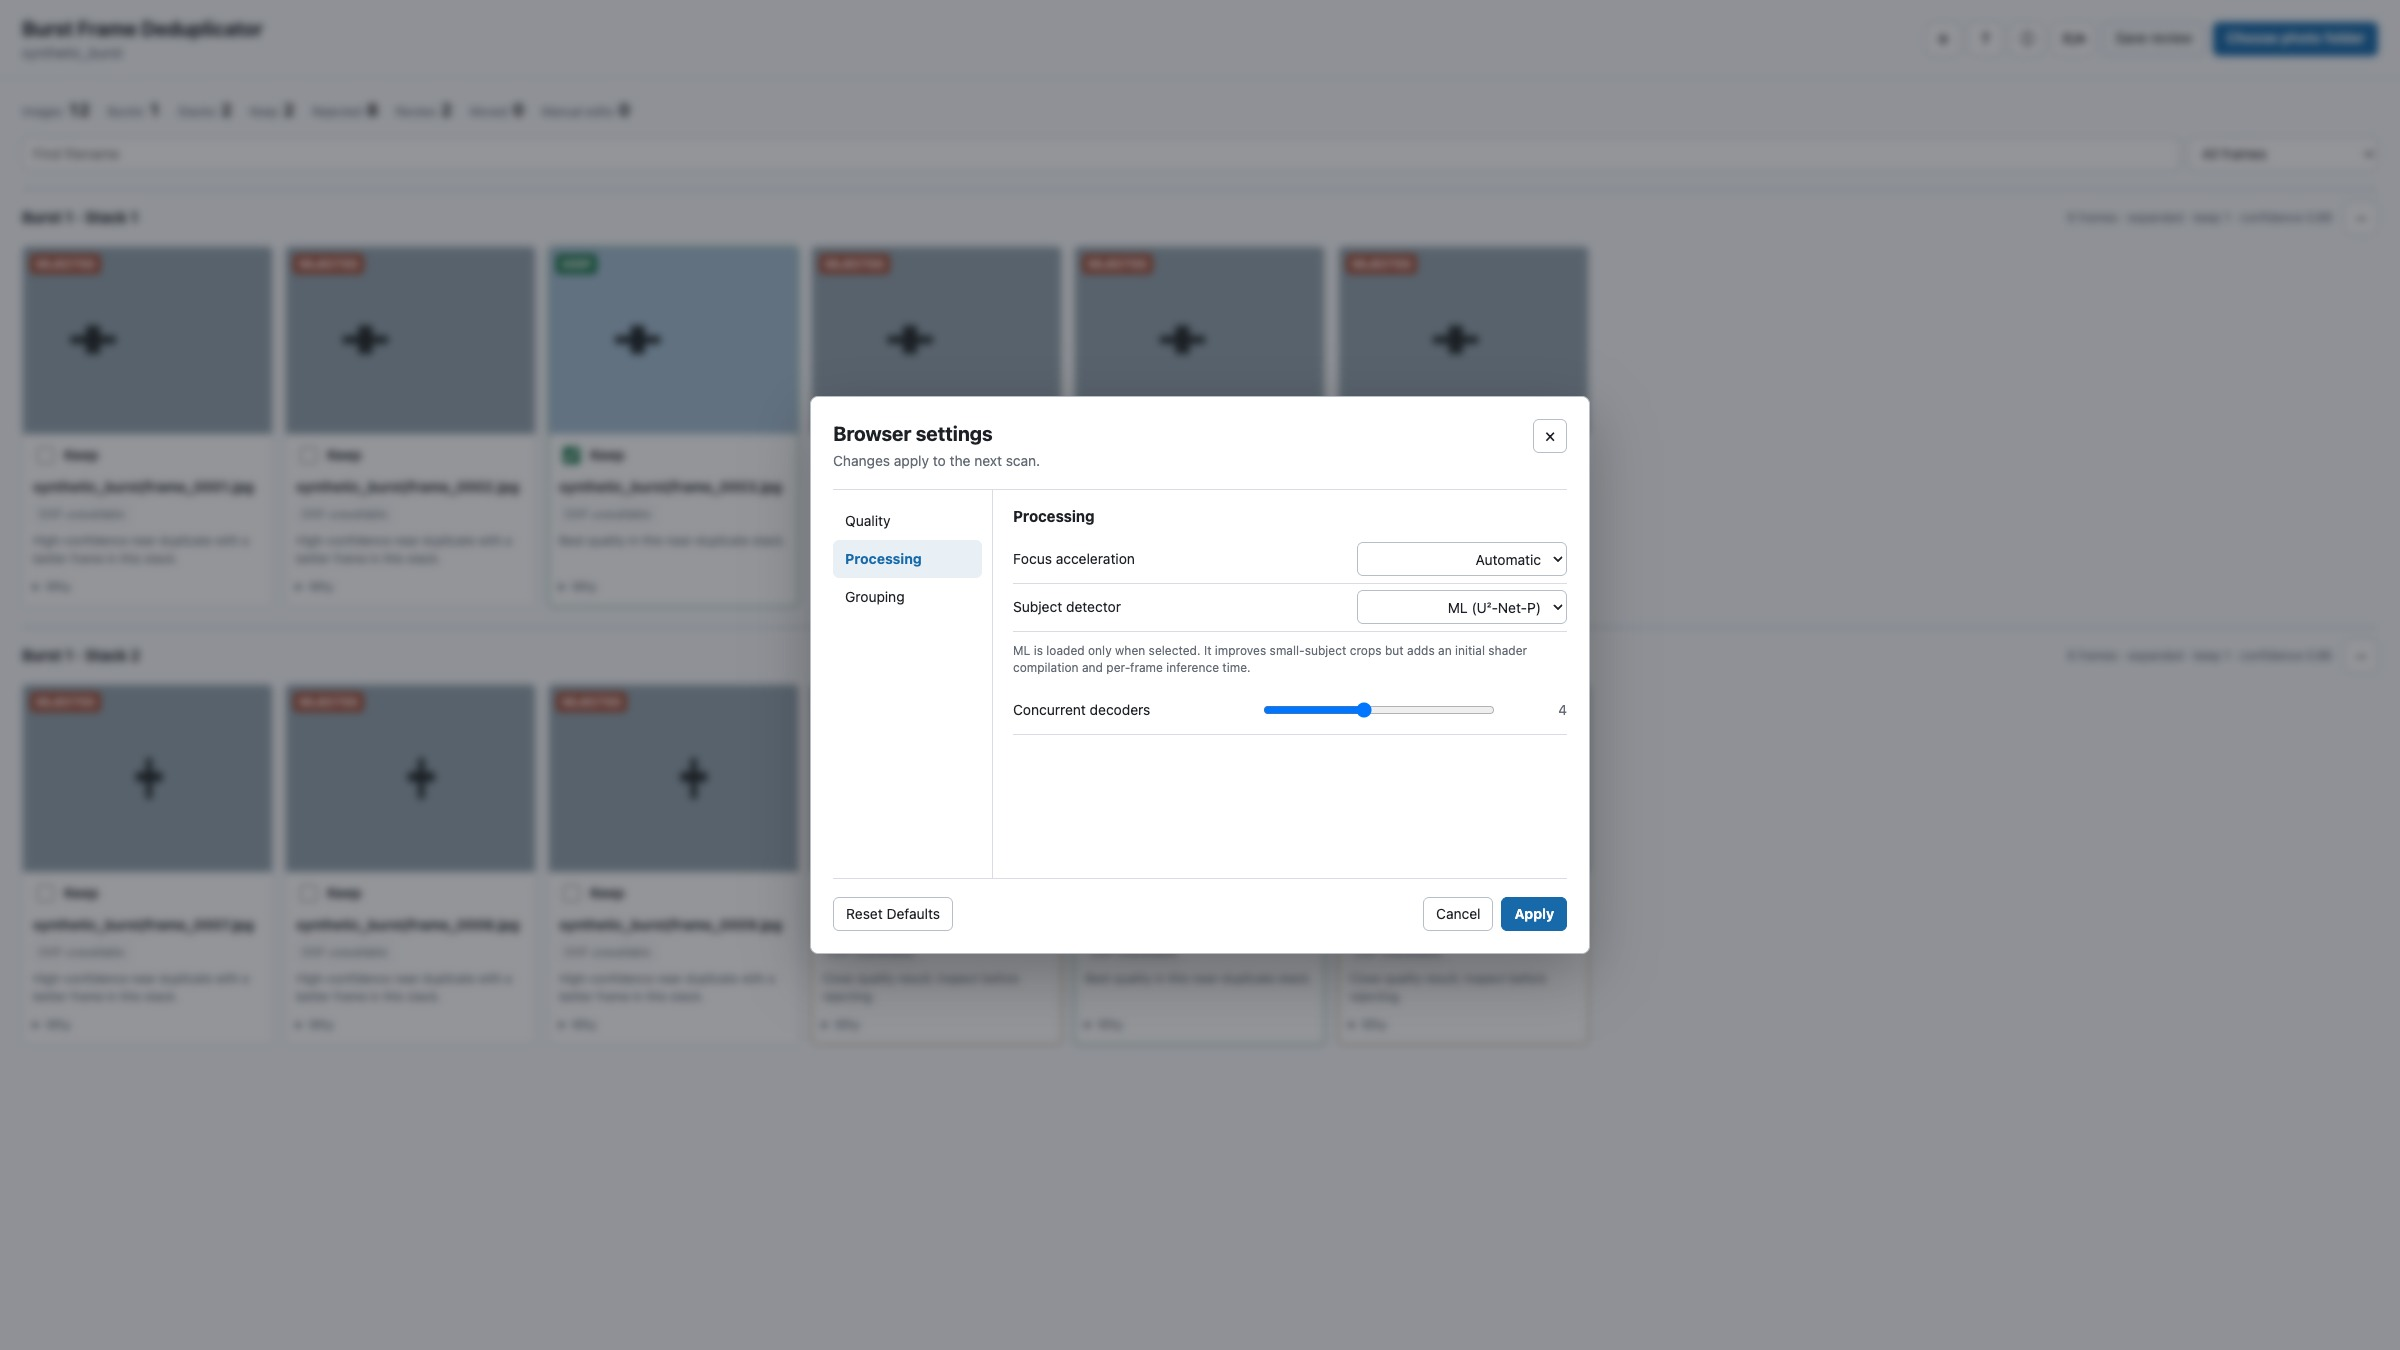
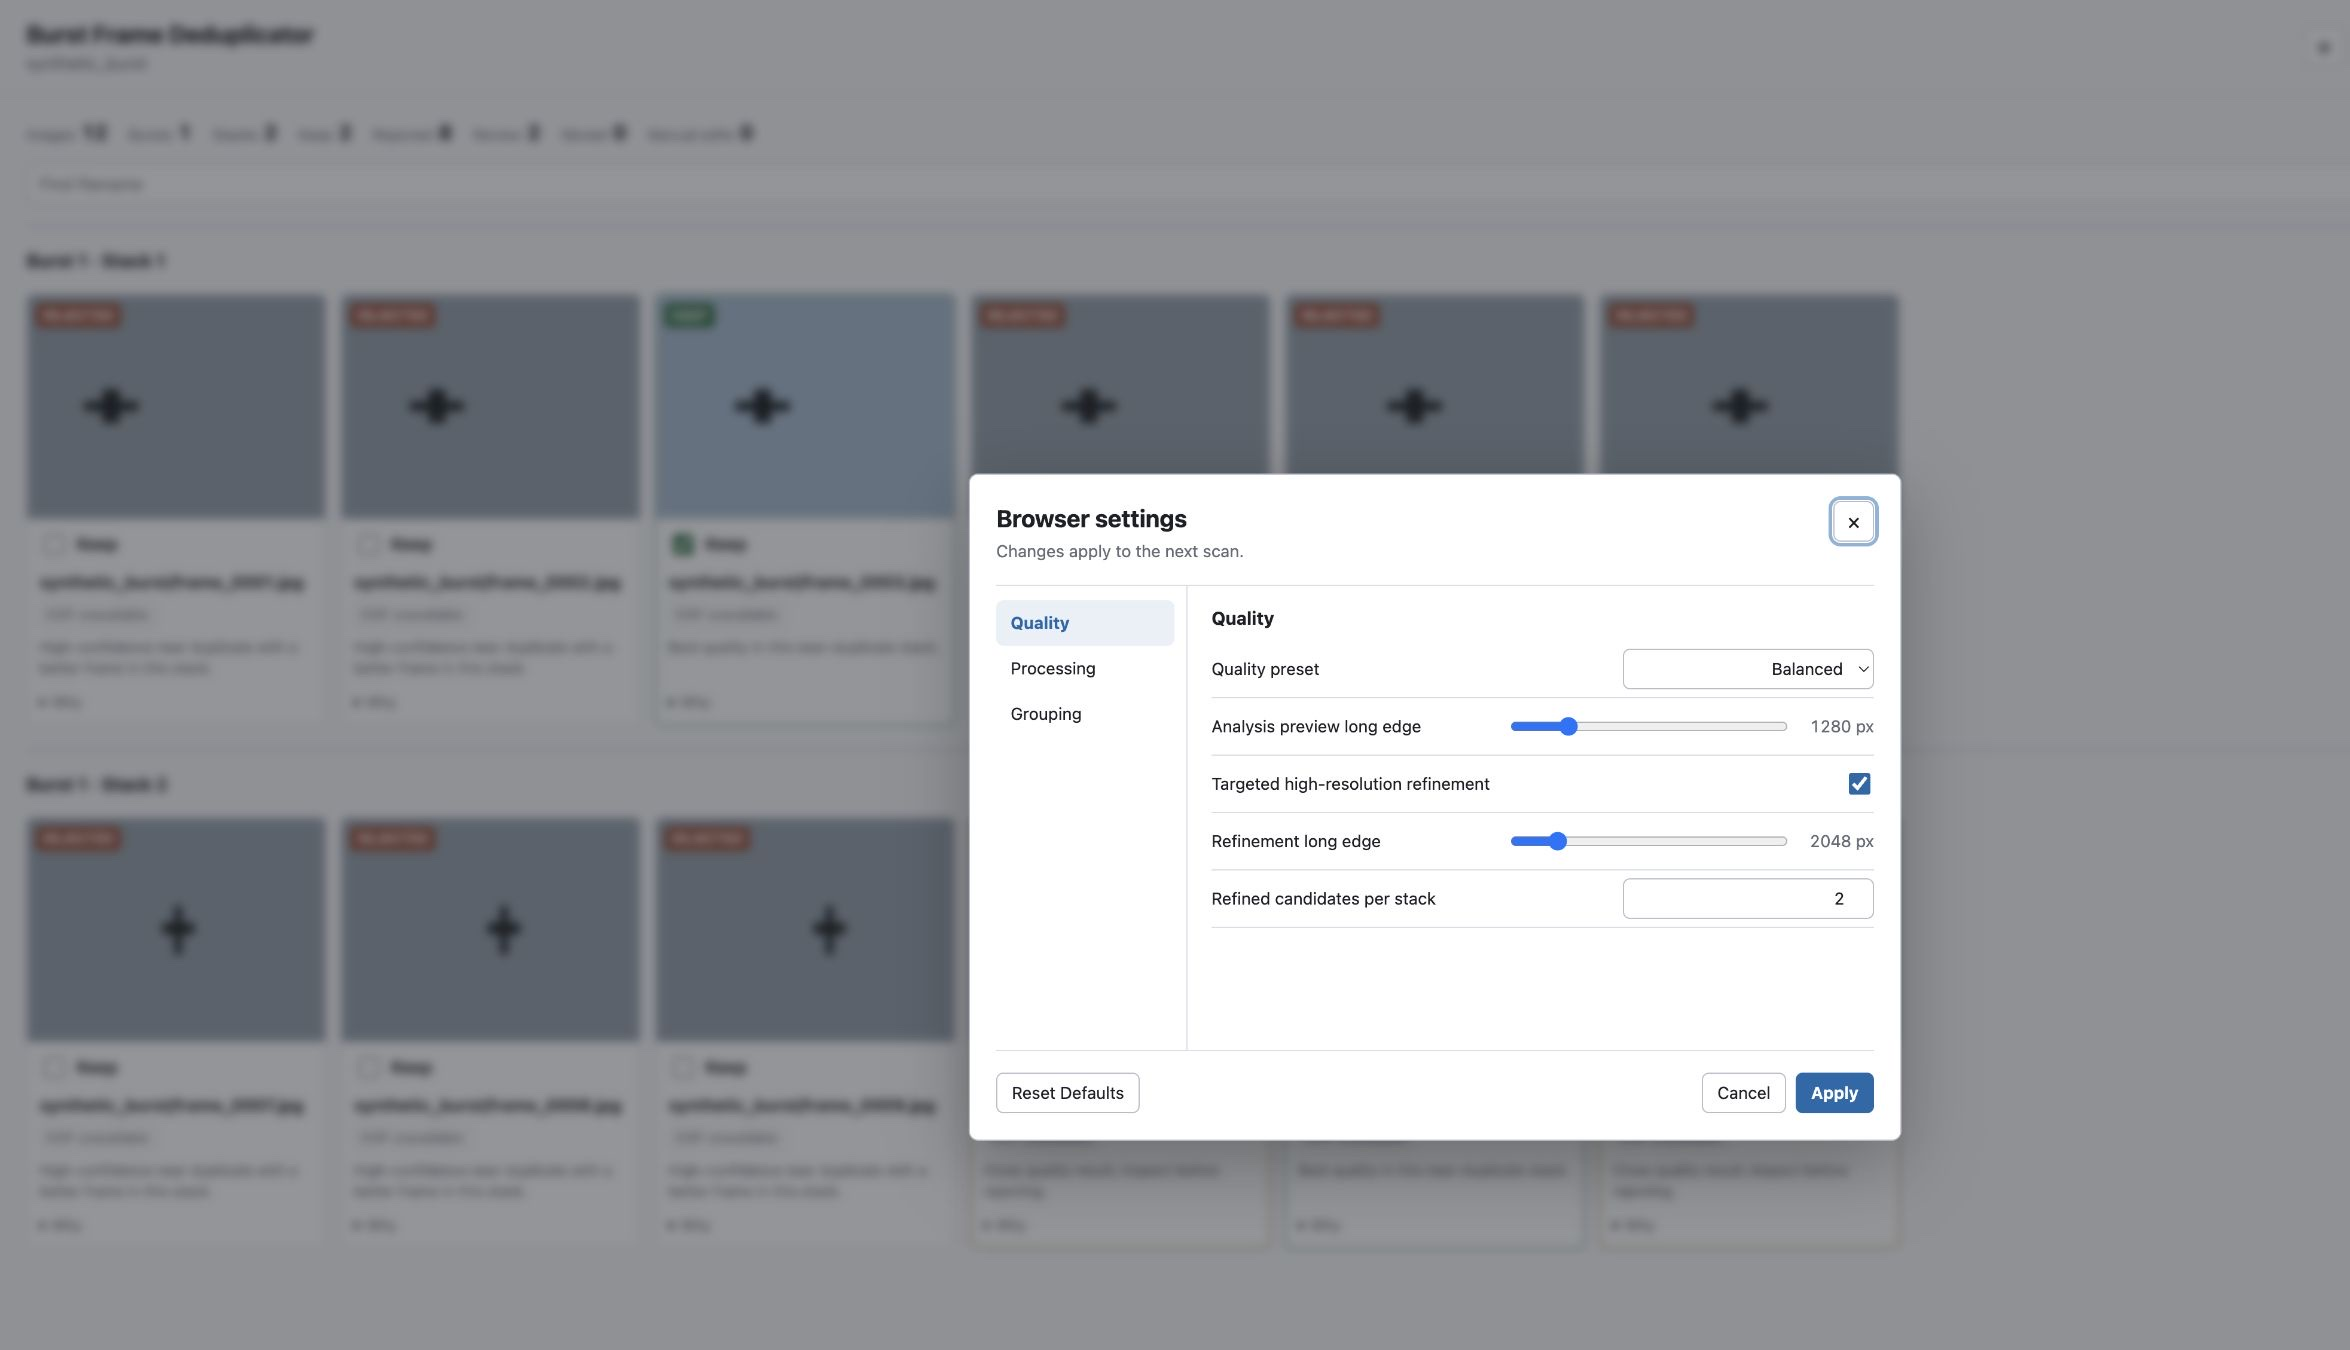
docs: update lifecycle controls and browser quality guidance

diff --git a/docs/TECHNICAL.md b/docs/TECHNICAL.md
@@ -49,8 +49,8 @@ The default Rust CLI has no windowing dependency. Build the Linux app explicitly
 The root Rust crate produces both `rlib` and `cdylib` artifacts. Its versioned C boundary accepts UTF-8 JSON requests and returns owned JSON envelopes for:
 
 - default scan options
-- synchronous scans with a progress callback
-- loading a completed run
+- synchronous scans with progress plus an optional cross-thread cancellation control
+- loading a completed run with staged parse/preparation progress
 - persisting a decision
 - preparing a full-image or cached RAW preview
 - exporting reviewed artifacts
@@ -59,7 +59,7 @@ The root Rust crate produces both `rlib` and `cdylib` artifacts. Its versioned C
 - planning, moving, and restoring basename-matched assets on a swapped RAW/JPEG card
 - relocating a complete run with progress and restore-journal path repair
 
-Every exported function catches Rust panics before crossing the ABI. Callers release returned strings with `bfd_free_string`. The Swift bridge centralizes JSON encoding, decoding, callback lifetime, and error conversion; views do not call C functions directly.
+Every exported function catches Rust panics before crossing the ABI. Callers release returned strings with `bfd_free_string`. API v5 adds reference-count-independent scan-control IDs: the caller creates a control, the scan clones its atomic token, another thread may cancel it, and the caller releases the registry entry after the synchronous scan returns. The Swift bridge centralizes JSON encoding, decoding, callback lifetime, and error conversion; views do not call C functions directly.
 
 The SwiftUI app uses system folder panels, pickers, steppers, checkboxes, menus, split navigation, confirmation dialogs, and SF Symbols. Standard controls automatically adopt macOS 26 Liquid Glass, with native fallback on earlier supported releases. Scan work, relocation, and decision writes run off the main actor. The review grid is lazy, thumbnail images use a bounded `NSCache`, and full-image RAW previews use a progressive memory/disk cache.
 
@@ -67,7 +67,7 @@ The full-image viewer uses `NSScrollView` rather than a gesture-only SwiftUI tra
 
 Appearance selection is applied at `NSApplication` and existing-window level, so auxiliary Settings/About scenes follow a dark-to-system transition instead of retaining a stale view override. System mode resolves the current Aqua/high-contrast appearance explicitly and observes macOS theme-change notifications, avoiding a partially repainted window while continuing to follow later OS changes. Settings tabs publish content-specific window heights capped by `NSScreen.visibleFrame`; native `Form` scrolling remains available only when the screen is shorter than the requested content.
 
-Known run paths are persisted separately from scan manifests. The Get Started view merges that registry with discovered children of the configured and legacy result roots, validates `manifest.json`, and computes directory usage off the main actor. Cleanup only accepts non-symlink directories with a manifest and excludes the currently open run.
+Known run paths are persisted separately from scan manifests. The Get Started view merges that registry with discovered children of the configured and legacy result roots, validates `manifest.json`, and computes directory usage off the main actor. Reopening a run reports manifest, decision, move-history, and review-preparation phases. Manifest JSON uses a 256 KiB buffered reader and emits byte-level progress; review state and move journals are buffered as well. This avoids the one-byte `serde_json::from_reader(File)` read pattern on large runs. Stack expansion is derived with indexed asset/decision lookup instead of repeated full-manifest scans. Cleanup only accepts non-symlink directories with a manifest and excludes the currently open run.
 
 Changing the result root for an open run is debounced in Swift and executed by Rust. Same-filesystem relocation uses `rename`; cross-filesystem relocation copies into a destination-volume staging folder, verifies every regular-file size, moves the old run to a cleanup tombstone, then atomically publishes the staged folder. Internal moved-reject destinations are rewritten before the new run is exposed. Existing destination names receive a suffix rather than being overwritten.
 
@@ -81,7 +81,7 @@ Counterpart-card matching is a metadata-only discovery pass over the selected ca
 
 ## Native GTK Application
 
-The Linux app is a non-unique `adw::Application`, allowing independent concurrent processes. Main and preview controllers are retained in per-thread registries until their windows close; signal handlers use weak references to avoid window/controller cycles. Scan, decision, export, move/restore, counterpart, relocation, and cache work run off the GTK main loop and publish typed events through a bounded UI poll.
+The Linux app is a non-unique `adw::Application`, allowing independent concurrent processes. Main and preview controllers are retained in per-thread registries until their windows close; signal handlers use weak references to avoid window/controller cycles. Scan, decision, export, move/restore, counterpart, relocation, and cache work run off the GTK main loop and publish typed events through a periodic UI poll. Window close and `Ctrl+Q` cancel an active scan and keep the event loop alive until the worker acknowledges cancellation.
 
 The review surface flattens expanded clusters into a `gio::ListStore` consumed by `GtkListView`. Only visible rows allocate thumbnails and controls. Cluster headers are ordered expanded-first, suggested decisions initialize tri-state checkboxes, and EXIF differences/quality/details are computed from the same manifest used by the web and macOS interfaces.
 
@@ -91,9 +91,9 @@ Settings and tutorial state use the XDG config directory. Tutorial completion/sk
 
 ## Progress Reporting
 
-`ProgressReporter` emits serializable updates with a stable stage enum, stage item counts, optional current-file detail, stage fraction, and weighted overall fraction. The stages are preparation, discovery, preview analysis, burst/stack grouping, high-resolution refinement, ranking, manifest writing, review export, and completion.
+`ProgressReporter` emits serializable updates with a stable stage enum, stage item counts, optional current-file detail, stage fraction, and weighted overall fraction. Scan stages are preparation, discovery, preview analysis, burst/stack grouping, high-resolution refinement, ranking, manifest writing, review export, and completion. Existing-run loading reuses the payload shape with manifest, decision, move-history, and review-preparation stages.
 
-The CLI installs a throttled terminal renderer. Swift receives the same serialized updates through the FFI callback, while GTK consumes the typed Rust update directly, so neither reconstructs progress accounting. Run relocation emits the same JSON field shape with a `relocating` stage, allowing native and CLI paths to reuse their progress plumbing.
+The CLI installs a throttled terminal renderer and listens for `Ctrl+C` on the async runtime while the synchronous pipeline runs in a blocking worker. The shared `CancellationToken` is checked during discovery, before each Rayon scoring/refinement item, between refinement batches, and before every write/export boundary. Active decoder or inference calls finish; new work does not start. Swift receives the same serialized updates through the FFI callback, while GTK consumes the typed Rust update directly, so neither reconstructs progress accounting. Run relocation emits the same JSON field shape with a `relocating` stage, allowing native and CLI paths to reuse their progress plumbing.
 
 ## Locale Loading
 
@@ -171,15 +171,15 @@ This makes ordinary review light: opening a JPEG/PNG/WebP/BMP/GIF streams the ex
 
 ## Static WASM Application
 
-`web/wasm` keeps decoded descriptors inside a `BrowserSession`. Browser JavaScript supplies a downscaled RGBA preview and file metadata; Rust computes shared quality metrics and descriptors, then performs temporal burst grouping, complete-link near-duplicate grouping, ranking, and confidence-gated suggestions. Users can persist quality preset, analysis size, focus backend, detector, decode concurrency, filename/time/hash limits, visual radius, and reject-confidence settings; each scan snapshots the settings so changes apply coherently to the next run.
+`web/wasm` keeps decoded descriptors inside a `BrowserSession`. Browser JavaScript supplies a downscaled RGBA preview and file metadata; Rust computes shared quality metrics and descriptors, then performs temporal burst grouping, complete-link near-duplicate grouping, ranking, and confidence-gated suggestions. Users can persist quality preset, first-pass/refinement sizes, refinement budget, minimum keeper count, focus backend, detector, decode concurrency, filename/time/hash limits, visual radius, and reject-confidence settings; each scan snapshots the settings so changes apply coherently to the next run.
 
 Browser formats are decoded in deterministic batches with bounded parallelism (up to four jobs by default, configurable from one to eight). The app prefers `ImageDecoder` scaled output where WebCodecs is available, then falls back to `createImageBitmap` and `OffscreenCanvas`. RAW-only assets are decoded serially by the stateful vendored LibRaw-WASM worker, converted to the configured bounded preview, and cached for repeat viewing. Same-basename files are grouped before analysis.
 
-The primary WASM module uses `wgpu` compute shaders for integer-luma Laplacian and Tenengrad reductions. Automatic mode calibrates and keeps WebGPU only when it wins; any initialization or scoring failure falls back to the exact portable WASM CPU scorer. `web/ml-wasm` is deliberately separate so ordinary scans do not download a roughly 14 MB uncompressed ML runtime. Selecting ML fetches the 4.3 MB burnpack and Burn/WGPU module, verifies the model at build time, and runs U²-Net-P in batches capped at four images. Native ONNX and browser Burn outputs share the same probability-mask postprocessing in `burst-core`.
+The primary WASM module uses `wgpu` compute shaders for integer-luma Laplacian and Tenengrad reductions. Automatic mode calibrates and keeps WebGPU only when it wins; any initialization or scoring failure falls back to the exact portable WASM CPU scorer. After provisional grouping, Rust selects the same top quality candidates used by the native policy; JavaScript decodes only those at the configured refinement size, and Rust replaces quality metrics without changing first-pass similarity descriptors. `web/ml-wasm` is deliberately separate so ordinary scans do not download a roughly 14 MB uncompressed ML runtime. Selecting ML fetches the 4.3 MB burnpack and Burn/WGPU module, verifies the model at build time, and runs U²-Net-P in batches capped at four images. Native ONNX and browser Burn outputs share the same probability-mask postprocessing in `burst-core`.
 
 The Pages build includes a same-origin isolation service worker because the current LibRaw-WASM binary uses shared WebAssembly memory. The app remains usable for browser-decodable formats when RAW support is unavailable.
 
-The static application performs verified copy/remove/restore only when the source was opened with a read-write File System Access directory handle and the user confirms the operation. This API is not portable: normal folder uploads and unsupported browsers remain read-only and expose review JSON plus generated POSIX/PowerShell scripts. In-browser restore state lasts for the current session, unlike the durable native `move_state.json` journal. Reliable native EXIF/filesystem fallback, Rayon, platform Vision, and the second high-resolution refinement pass are unavailable in the browser edition.
+The static application performs verified copy/remove/restore only when the source was opened with a read-write File System Access directory handle and the user confirms the operation. This API is not portable: normal folder uploads and unsupported browsers remain read-only and expose review JSON plus generated POSIX/PowerShell scripts. In-browser restore state lasts for the current session, unlike the durable native `move_state.json` journal. Reliable native EXIF/filesystem fallback, Rayon, platform Vision, native RAW decoding, and durable move journals remain unavailable in the browser edition. Cancellation invalidates the scan token, releases partial object URLs, and is checked between every decode, ML, focus, and refinement batch.
 
 `web/wasm/build.sh` creates an ignored `web/dist` directory. `.github/workflows/pages.yml` builds that directory and deploys it with the official GitHub Pages actions. Its path allow-list covers only static-app, shared-browser, shared-core, locale, and workflow inputs, so documentation-only commits do not start a Pages deployment.
 
@@ -191,7 +191,7 @@ Pushes and pull requests that contain non-documentation changes, plus manual run
 
 CI has no Developer ID or notarization credentials: its DMG is deliberately ad-hoc signed and must be described as such. A maintainer can produce a hardened-runtime Developer ID build by supplying `CODE_SIGN_IDENTITY` and `NOTARY_PROFILE` to `scripts/build_macos_dmg.sh` outside that workflow.
 
-The static scanner snapshots the selected `FileList` before clearing the input, then publishes a local `burst-benchmark-complete` event containing discovery, WASM/WebGPU initialization, optional detector initialization/preprocessing/inference, browser decode, Rust scoring, clustering, rendering, total time, throughput, selected adapters, fallback notes, and the settings snapshot. `benchmark/wasm_benchmark.mjs` consumes this event in local headless Chrome.
+The static scanner snapshots the selected `FileList` before clearing the input, then publishes a local `burst-benchmark-complete` event containing discovery, WASM/WebGPU initialization, optional detector initialization/preprocessing/inference, browser decode, Rust scoring, refinement candidate/decode/scoring work, clustering, rendering, total time, throughput, selected adapters, fallback notes, and the settings snapshot. `benchmark/wasm_benchmark.mjs` consumes this event in local headless Chrome.
 
 ## Timing Fields
 

diff --git a/docs/USAGE.md b/docs/USAGE.md
@@ -64,7 +64,7 @@ cargo run --release --features linux-gui --bin burst-frame-deduplicator-gtk
 
 Select **New Scan** and choose the photo folder or mounted card. The button is always available and starts the scan as soon as the folder is selected. New run folders are created under the result directory configured in **Settings > General**; the default is `~/Pictures/Burst Frame Deduplicator Runs`.
 
-The Get Started view also lists recent completed runs. Select one to resume its review, even when the original card is currently disconnected. The window shows the active stage, current file, item count, and weighted overall progress. When scanning finishes, the same window becomes a native review workspace; it does not open a browser.
+The Get Started view also lists recent completed runs. Select one to resume its review, even when the original card is currently disconnected. Opening a large run switches to a staged loading view: the first half of the progress bar follows manifest bytes, then the app loads decisions and move history and prepares the native review. An activity indicator remains visible during parsing and Swift/GTK model preparation. A scan shows the current file, item count, weighted overall progress, and **Cancel Scan**; cancellation finishes in-flight frame work safely, skips later stages, and removes the newly created partial run. When scanning finishes, the same window becomes a native review workspace; it does not open a browser.
 
 Change language and system/light/dark appearance in **Settings > General**. The app supplies localized titles, messages, and buttons to its file panels instead of relying on the operating-system language. The review state remains intact. On macOS 26, native controls use the system Liquid Glass treatment. Linux uses GTK 4/libadwaita controls that adapt to GNOME appearance and accessibility settings.
 
@@ -144,6 +144,8 @@ The command line reports each long-running stage with overall percentage, item p
 cargo run --release -- scan /path/to/photos 2> scan-progress.log
 ```
 
+Press `Ctrl+C` once to request cancellation. The worker finishes the frame already inside a decoder or detector, prevents new scoring/refinement work from starting, and removes the partial run directory when that directory was created by the cancelled scan. It never removes a pre-existing output directory.
+
 A downloaded release CLI does not need the repository checkout. Its local review UI, locale catalogs, and browser RAW decoder are embedded, so the equivalent standalone commands are:
 
 ```bash
@@ -172,11 +174,11 @@ git lfs pull
 python3 -m http.server 4173 --directory web/dist
 ```
 
-Open `http://127.0.0.1:4173` and select a folder. The page reports the current stage, frame, and overall percentage while it decodes and scores previews; `Cancel` stops the run and releases partial previews. Everything runs locally in the browser. Browser formats use built-in decoding; RAW-only assets use the bundled LibRaw-WASM worker. The Rust WASM module performs subject scoring, burst grouping, posture-aware stack separation, and recommendation ranking.
+Open `http://127.0.0.1:4173` and select a folder. The page reports the current stage, frame, and overall percentage while it decodes, scores, and selectively refines previews; `Cancel` stops at the next decode/inference boundary and releases partial previews. Everything runs locally in the browser. Browser formats use built-in decoding; RAW-only assets use the bundled LibRaw-WASM worker. The Rust WASM module performs subject scoring, burst grouping, posture-aware stack separation, targeted refinement, and recommendation ranking.
 
-Open **Settings** before a scan to choose Best Quality, Balanced, Fast, or a custom configuration. The browser exposes analysis resolution, automatic/WebGPU/portable focus scoring, heuristic/U²-Net-P/off detector choice, decode concurrency, filename-counter and capture-time limits, burst span, hash guard, visual duplicate radius, and minimum reject confidence. Settings are stored locally in the browser and snapshotted when a scan starts, so edits affect the next scan only.
+Open **Settings** before a scan to choose Best Quality, Balanced, Fast, or a custom configuration. The browser exposes first-pass and refinement resolution, refinement candidates and minimum keepers per stack, automatic/WebGPU/portable focus scoring, heuristic/U²-Net-P/off detector choice, decode concurrency, filename-counter and capture-time limits, burst span, hash guard, visual duplicate radius, and minimum reject confidence. Settings are stored locally in the browser and snapshotted when a scan starts, so edits affect the next scan only.
 
-![Static browser processing settings with local U²-Net-P selected](assets/usage-browser-settings.jpg)
+![Static browser quality and targeted refinement settings](assets/usage-browser-settings.jpg)
 
 Automatic focus mode calibrates Rust/WGPU compute against the portable WASM scorer and falls back without changing results when WebGPU is unavailable or slower. Selecting ML lazily downloads the separate Burn/WGPU module and U²-Net-P weights, then runs inference in batches of at most four previews. The model is not downloaded for heuristic or off scans.
 
@@ -186,7 +188,7 @@ The static edition supports English and Simplified Chinese, preselected decision
 
 When a Chromium-style browser supplies read-write File System Access handles, `Save review` can copy, size-check, and move grouped files to a selected local folder, then restore them during the same browser session. A normal folder upload exposes read-only handles instead; in that case, direct move is disabled and the modal provides review JSON plus macOS/Linux and Windows scripts.
 
-Browser-only analysis is not quality-equivalent to the native pipeline. It has no reliable native EXIF/filesystem metadata fallback, Rayon, platform Vision, or second high-resolution refinement pass. RAW uses LibRaw-WASM's bounded preview decode, and browser decoder behavior varies by format. On the included 120-frame aircraft fixture, heuristic WebGPU and U²-Net-P both reach `95.5%` reviewed pair accuracy and `100%` posture-phase coverage; ML creates two additional subject/posture stacks but is roughly four times slower on the measured Apple Silicon browser. Native balanced and best-quality paths reach `100%` on both labels. Use native **Best Quality** for distant aircraft, birds, or other small subjects.
+Browser-only analysis is not quality-equivalent to the native pipeline. It now performs the same targeted second-pass candidate policy and can use WebGPU for refinement focus, but it has no reliable native EXIF/filesystem fallback, Rayon, platform Vision, or full native RAW decoder stack. RAW uses LibRaw-WASM's bounded preview decode, and browser decoder behavior varies by format. On the included 120-frame aircraft fixture, the measured heuristic WebGPU and U²-Net-P paths both reach `95.5%` reviewed pair accuracy and `100%` posture-phase coverage; ML creates two additional subject/posture stacks but takes about `2.7x` as long (`75.9 s` versus `27.7 s`) on the measured Apple Silicon browser. Native balanced and best-quality paths reach `100%` on both labels. Use native **Best Quality** for distant aircraft, birds, or other small subjects.
 
 The repository’s Pages workflow deploys `web/dist` automatically after GitHub Pages is configured with **GitHub Actions** as its source.
 
@@ -234,7 +236,7 @@ The native option matrix writes `latest.md` on macOS, `latest-linux.md` on Linux
 Open one of the benchmark review runs:
 
 ```bash
-cargo run --release -- serve --run benchmark/runs/balanced_neon --open
+cargo run --release -- serve --run benchmark/runs/balanced_cpu --open
 ```
 
 The benchmark output is safe to use as a practice review because the raw benchmark run directory is ignored by Git.
@@ -399,7 +401,6 @@ Common options:
 - `--detector-model-pack DIR`: select the verified offline model/runtime directory. `BFD_ML_MODEL_PACK` is the environment equivalent.
 - `--detector-threads N`: set the serialized ONNX Runtime session's CPU thread count; the default is the scan worker count capped at eight.
 - `--keepers-per-cluster N`: force a fixed keep count for every near-duplicate stack.
-- `--cull-singletons`: allow unique non-burst images to be rejected when they score poorly.
 - `--workers N`: set worker count for parallel scoring.
 
 </details>
@@ -438,7 +439,7 @@ shasum -a 256 -c Burst-Frame-Deduplicator-macos-arm64.dmg.sha256
 # Linux
 sha256sum -c burst-frame-deduplicator-linux-x86_64.tar.gz.sha256
 sha256sum -c burst-frame-deduplicator-linux-arm64.tar.gz.sha256
-sha256sum -c burst-frame-deduplicator_0.6.0_arm64.deb.sha256
+sha256sum -c burst-frame-deduplicator_0.7.0_arm64.deb.sha256
 ```
 
 The Linux and macOS CLI archives are standalone and can be unpacked outside the checkout. Linux x86_64 and ARM64 archives are built on Ubuntu 24.04 and target Ubuntu 24.04 or newer; build from source on an older glibc distribution. The x86_64 archive includes runtime-dispatched AVX2 and dynamically loaded CUDA; ARM64 uses the NEON target baseline. Neither requires an accelerator or model runtime to start. The optional ONNX detector remains a separate checksum-verified pack because the accurate model alone is about 179 MB. Optional external RAW tools are not bundled with CLI archives.
@@ -446,8 +447,8 @@ The Linux and macOS CLI archives are standalone and can be unpacked outside the 
 The Linux `.deb` installs both executables plus the launcher, icon, and desktop metadata. It declares GTK 4.14, libadwaita 1.5, LibRaw, and ImageMagick dependencies, so `apt` installs the RAW-preview runtime. Install the package with:
 
 ```bash
-sudo apt install ./burst-frame-deduplicator_0.6.0_amd64.deb
-# or: sudo apt install ./burst-frame-deduplicator_0.6.0_arm64.deb
+sudo apt install ./burst-frame-deduplicator_0.7.0_amd64.deb
+# or: sudo apt install ./burst-frame-deduplicator_0.7.0_arm64.deb
 ```
 
 The CI-built macOS app is **ad-hoc signed and not notarized**. Gatekeeper cannot establish an identified developer for it. Prefer a Developer ID signed/notarized build when one is available. If you have verified the checksum and trust the repository artifact, first attempt to open the app, then use **System Settings > Privacy & Security > Security > Open Anyway**. Apple warns that overriding this protection can expose the Mac to malicious software; see [Open a Mac app from an unknown developer](https://support.apple.com/guide/mac-help/open-a-mac-app-from-an-unknown-developer-mh40616/mac).